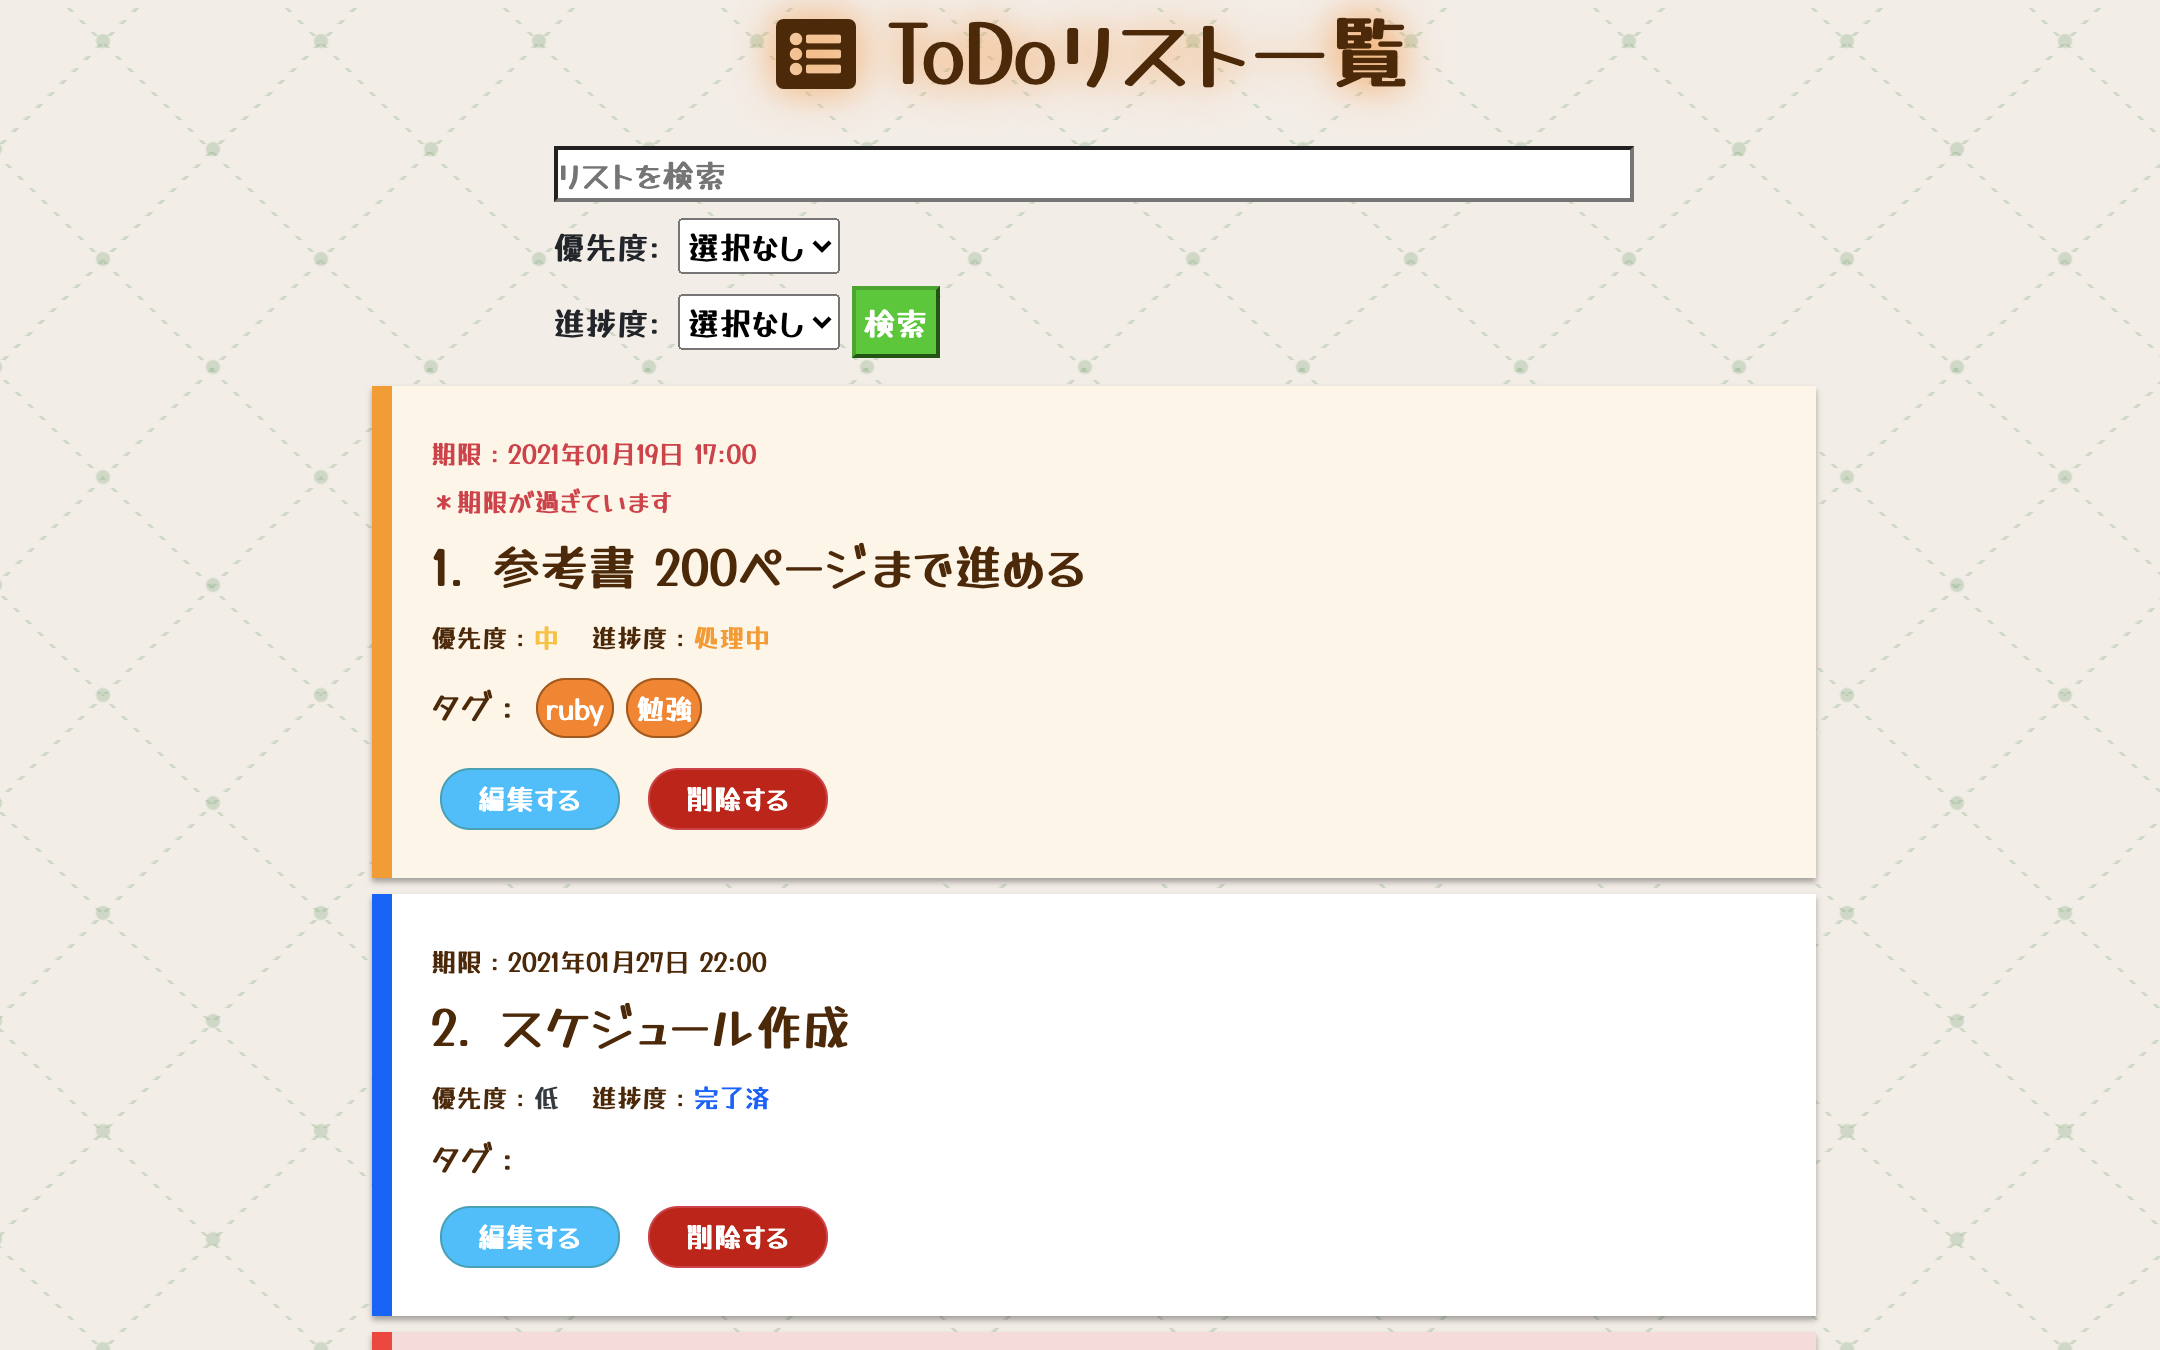
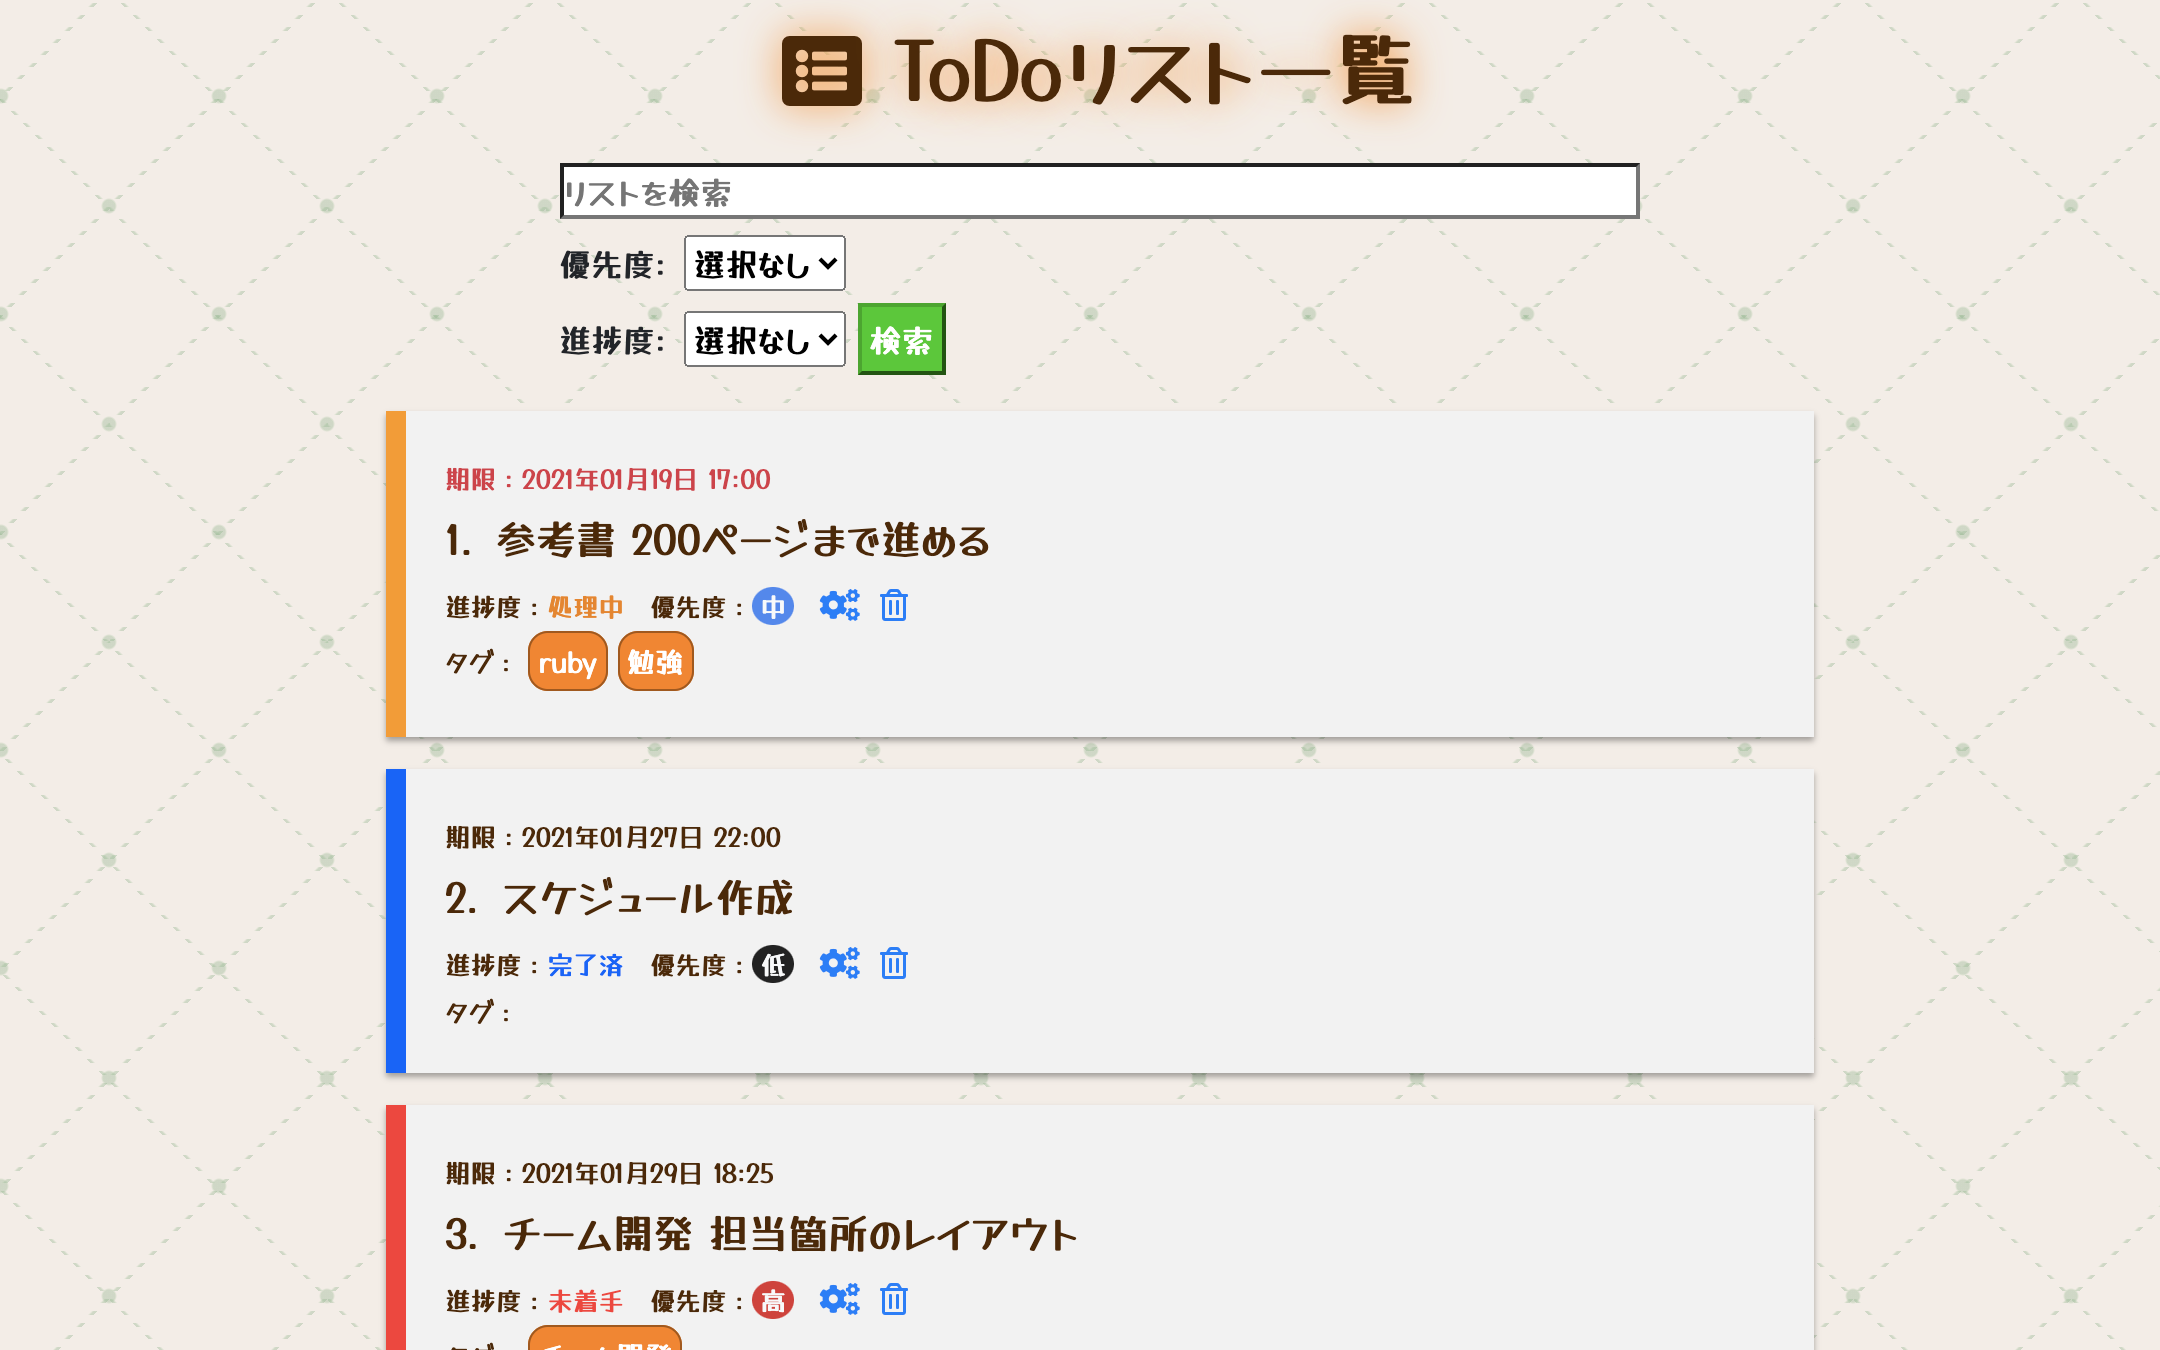
レイアウト微調整

diff --git a/app/assets/stylesheets/public/tasks.scss b/app/assets/stylesheets/public/tasks.scss
@@ -12,13 +12,16 @@
   text-shadow: 0px 0px 20px #FF9933;
 }
 .high-priority {
-  background: #FADBDA;
+  border-radius: 50%;
+  background: #DF3333;
 }
 .medium-priority {
-  background: #FDF5E6;
+  border-radius: 50%;
+  background: #4987F2;
 }
 .low-priority {
-  background: #FFF;
+  border-radius: 50%;
+  background: #222;
 }
 .new-task-content {
   border-left: solid 10px #FF3333;
@@ -33,6 +36,7 @@
   border-left: solid 10px #00DD00;
 }
 .task-content {
+  background: #F2F2F2;
   padding: 0.5em 1em;
   box-shadow: 0px 2px 3px rgba(0, 0, 0, 0.33);
   .card-title a, .card-text {
@@ -50,13 +54,13 @@
     color: #FF3333;
   }
   .processing-task {
-    color: #FF9900;
+    color: #F28100;
   }
   .completed-task {
     color: #005FFF;
   }
   .pending-task {
-    color: #00DD00;
+    color: #008000;
   }
 }
 

diff --git a/app/assets/stylesheets/public/users.scss b/app/assets/stylesheets/public/users.scss
@@ -48,13 +48,13 @@
   color: #FF3333;
 }
 .processing-task {
-  color: #FF9900;
+  color: #F28100;
 }
 .completed-task {
   color: #005FFF;
 }
 .pending-task {
-  color: #00DD00;
+  color: #008000;
 }
 .user-list-title {
   color: #512700;

diff --git a/app/helpers/public/tasks_helper.rb b/app/helpers/public/tasks_helper.rb
@@ -11,23 +11,13 @@ module Public::TasksHelper
     end
   end
 
-  def add_class_name_priority_bg_color(priority_status)
+  def add_class_name_priority(priority_status)
     if priority_status == '高'
       priority_status.gsub(priority_status, "high-priority")
     elsif priority_status == '中'
       priority_status.gsub(priority_status, "medium-priority")
     elsif priority_status == '低'
       priority_status.gsub(priority_status, "low-priority")
-    end
-  end
-
-  def add_class_name_priority_text_color(priority_status)
-    if priority_status == '高'
-      priority_status.gsub(priority_status, "text-danger")
-    elsif priority_status == '中'
-      priority_status.gsub(priority_status, "text-warning")
-    elsif priority_status == '低'
-      priority_status.gsub(priority_status, "text-dark")
     end
   end
 end
